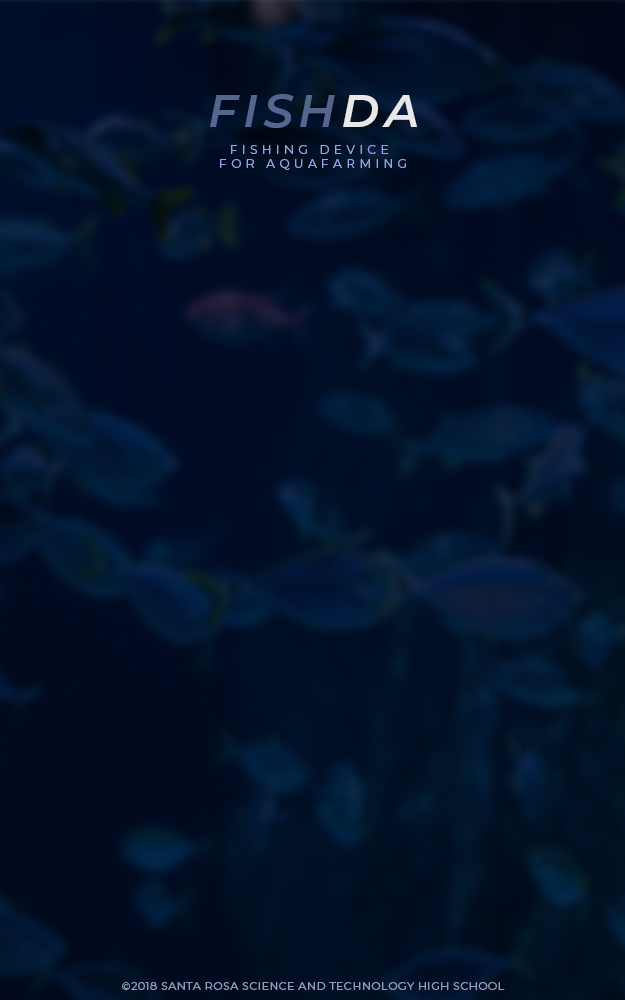
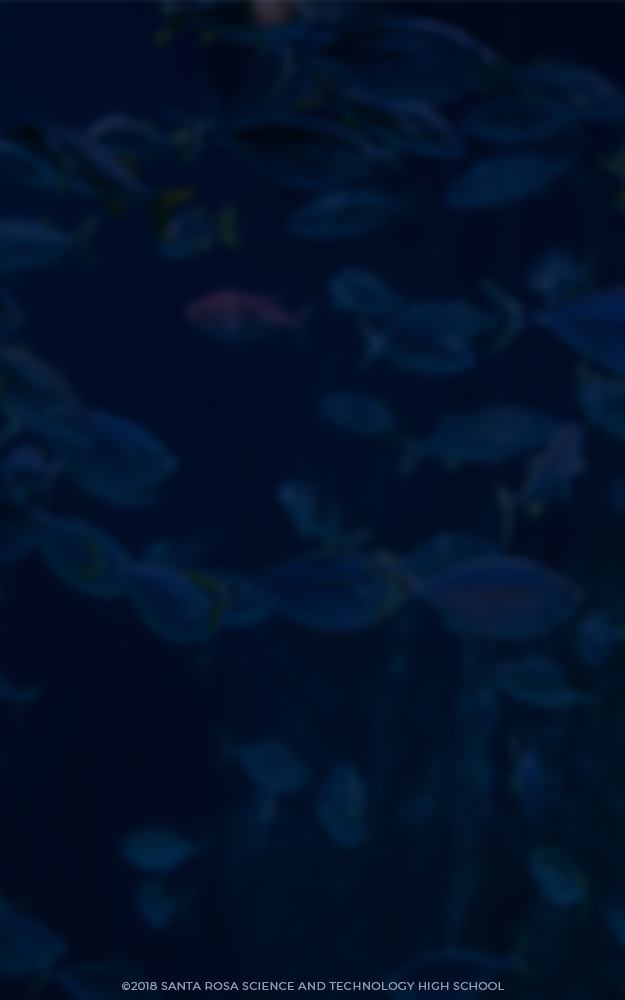
separated FishDA header from the bg

Changed region(s): [[0.3344, 0.093, 0.6688, 0.186]]

diff --git a/FishDA/index.html b/FishDA/index.html
@@ -4,10 +4,10 @@
 </head>
 <style>
 table {
-    margin-left: 25%;
-    margin-right: 25%;
-    height: 200px;
-    width: 200px;
+    margin-left: auto;
+    margin-right: auto;
+    height: 2px;
+    width: 2px;
     vertical-align: bottom;
 }
 
@@ -21,9 +21,15 @@ body {
     background-position: center top;
 }
 
+img.header {
+    display: block;
+    margin-left: auto;
+    margin-right: auto;
+}
+
 </style>
 <body>
-
+<img class="header" src="assets/mainpage_header.png">
 <table style="width:50%;">
     <tr>
       <th> <img id="fish1" href="javascript:void(0)" src="assets/mainpage_fish.png" alt="logo"/></th>
